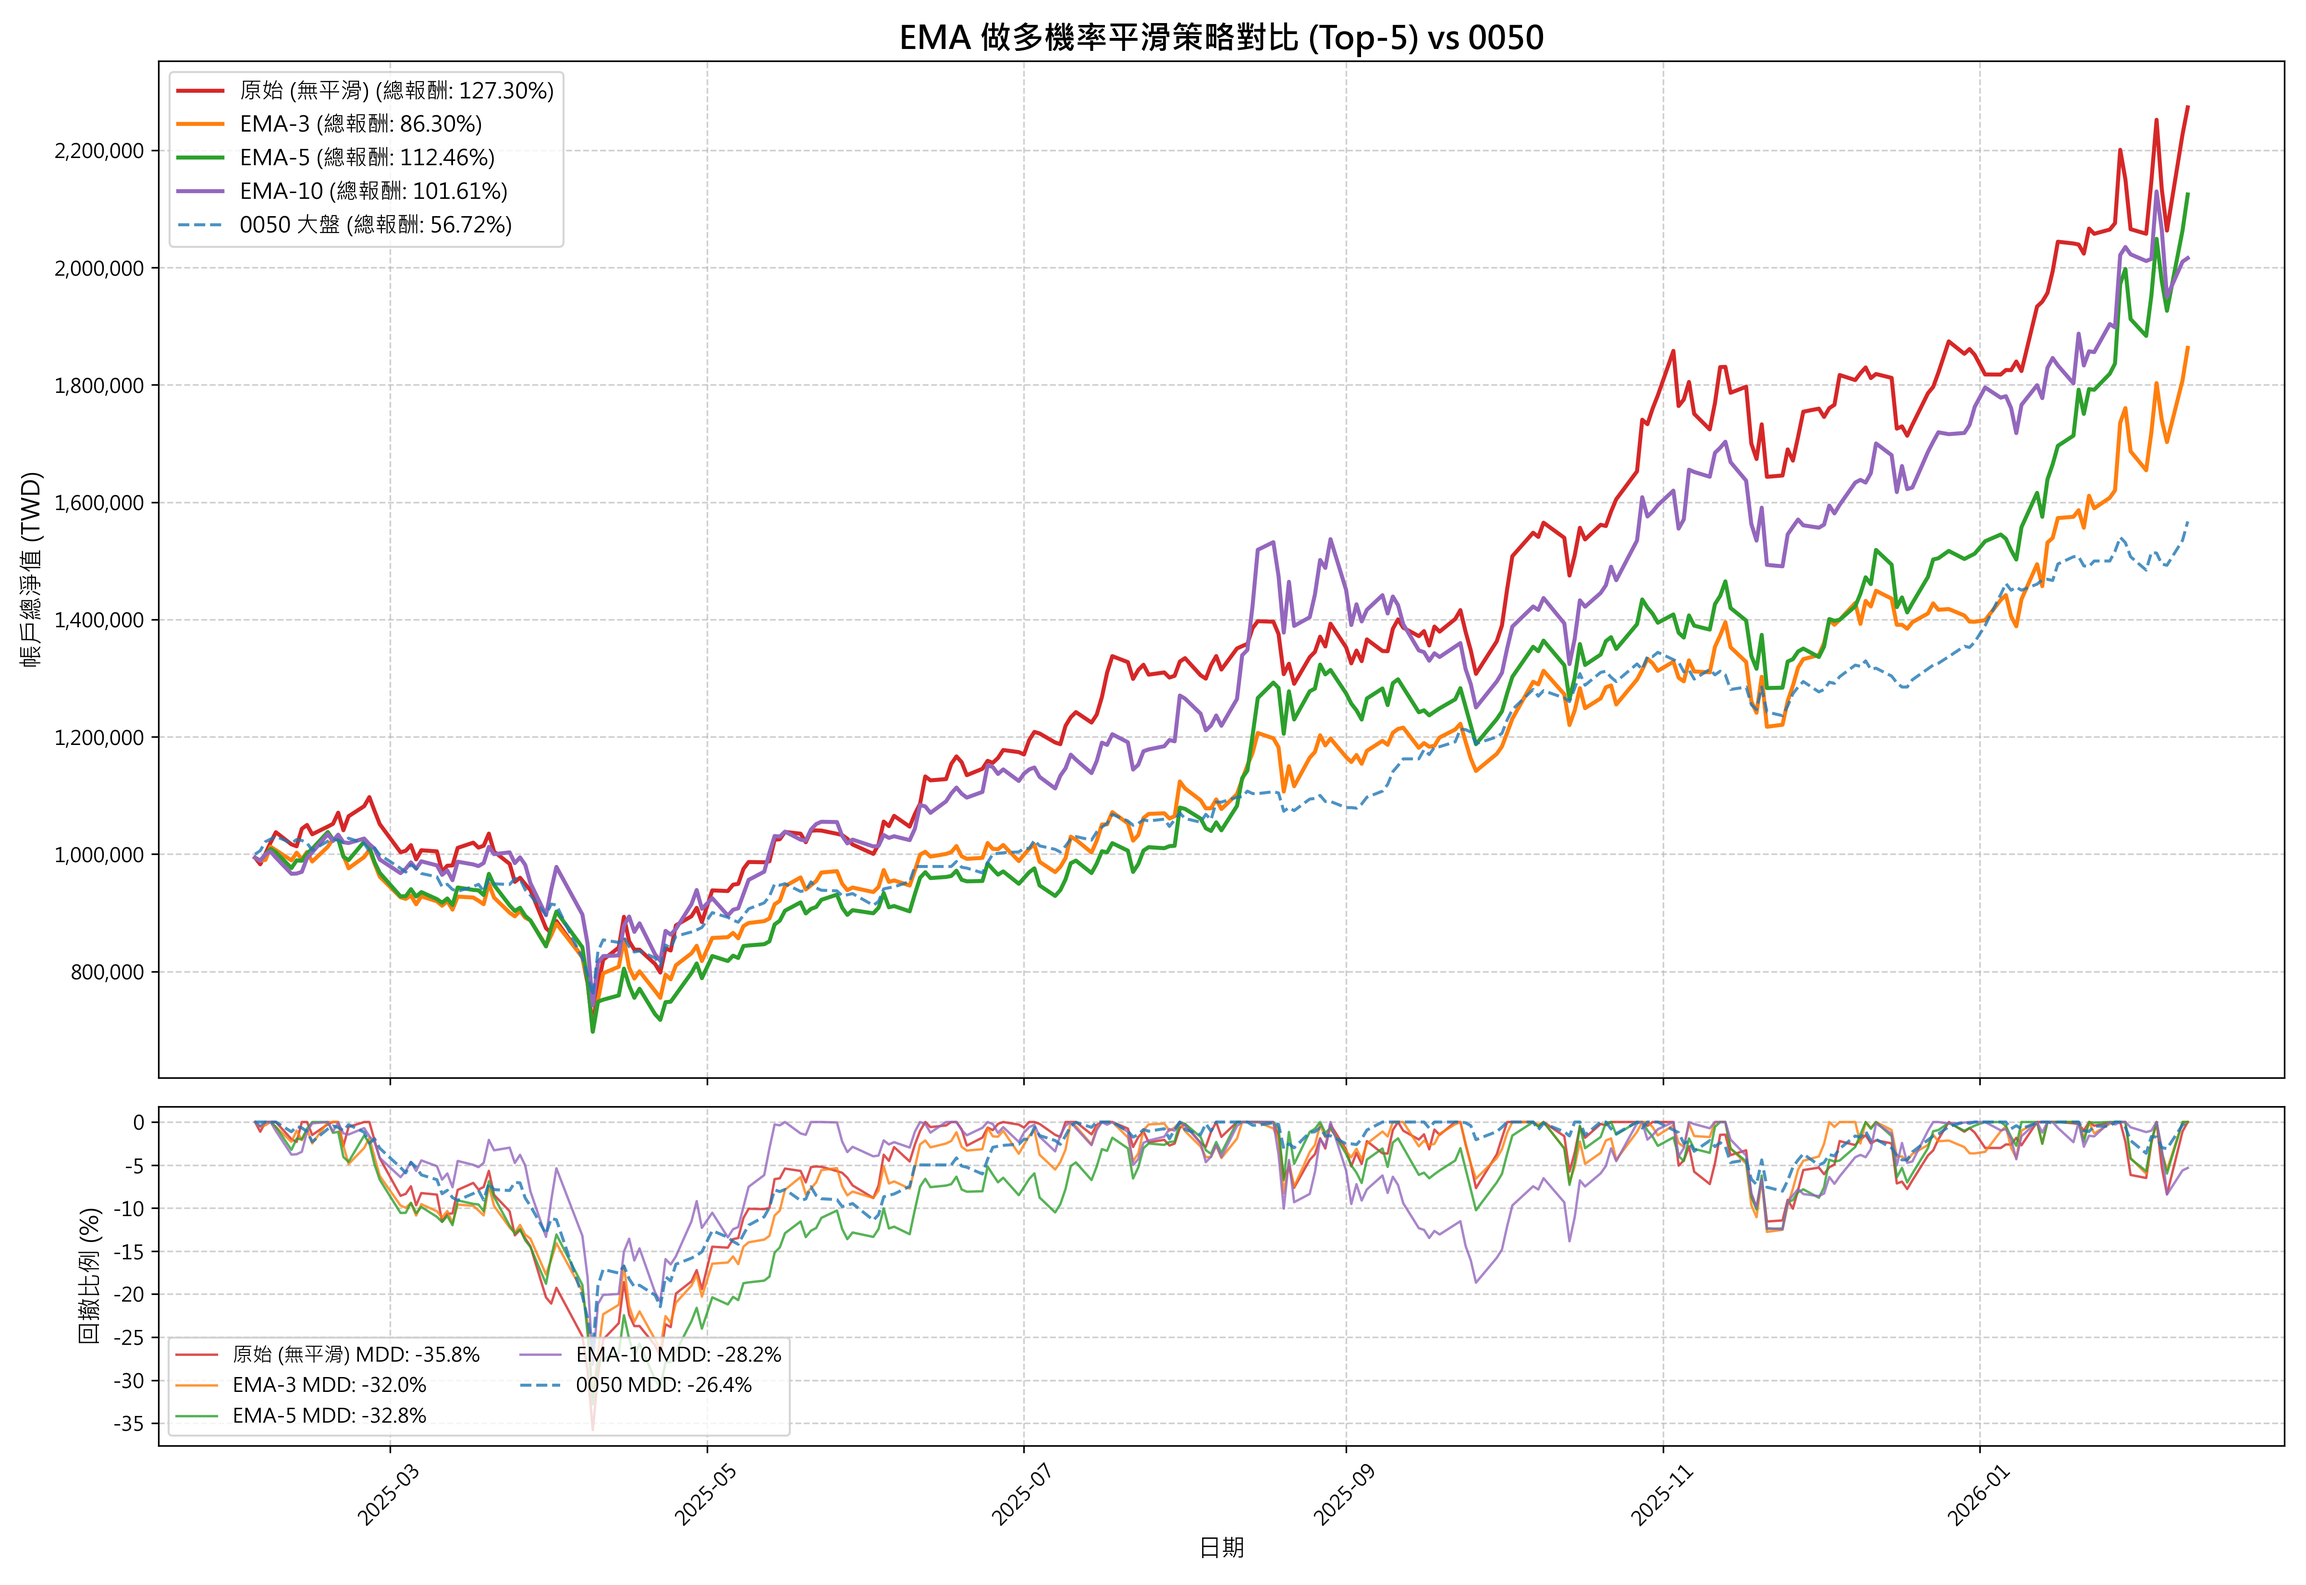
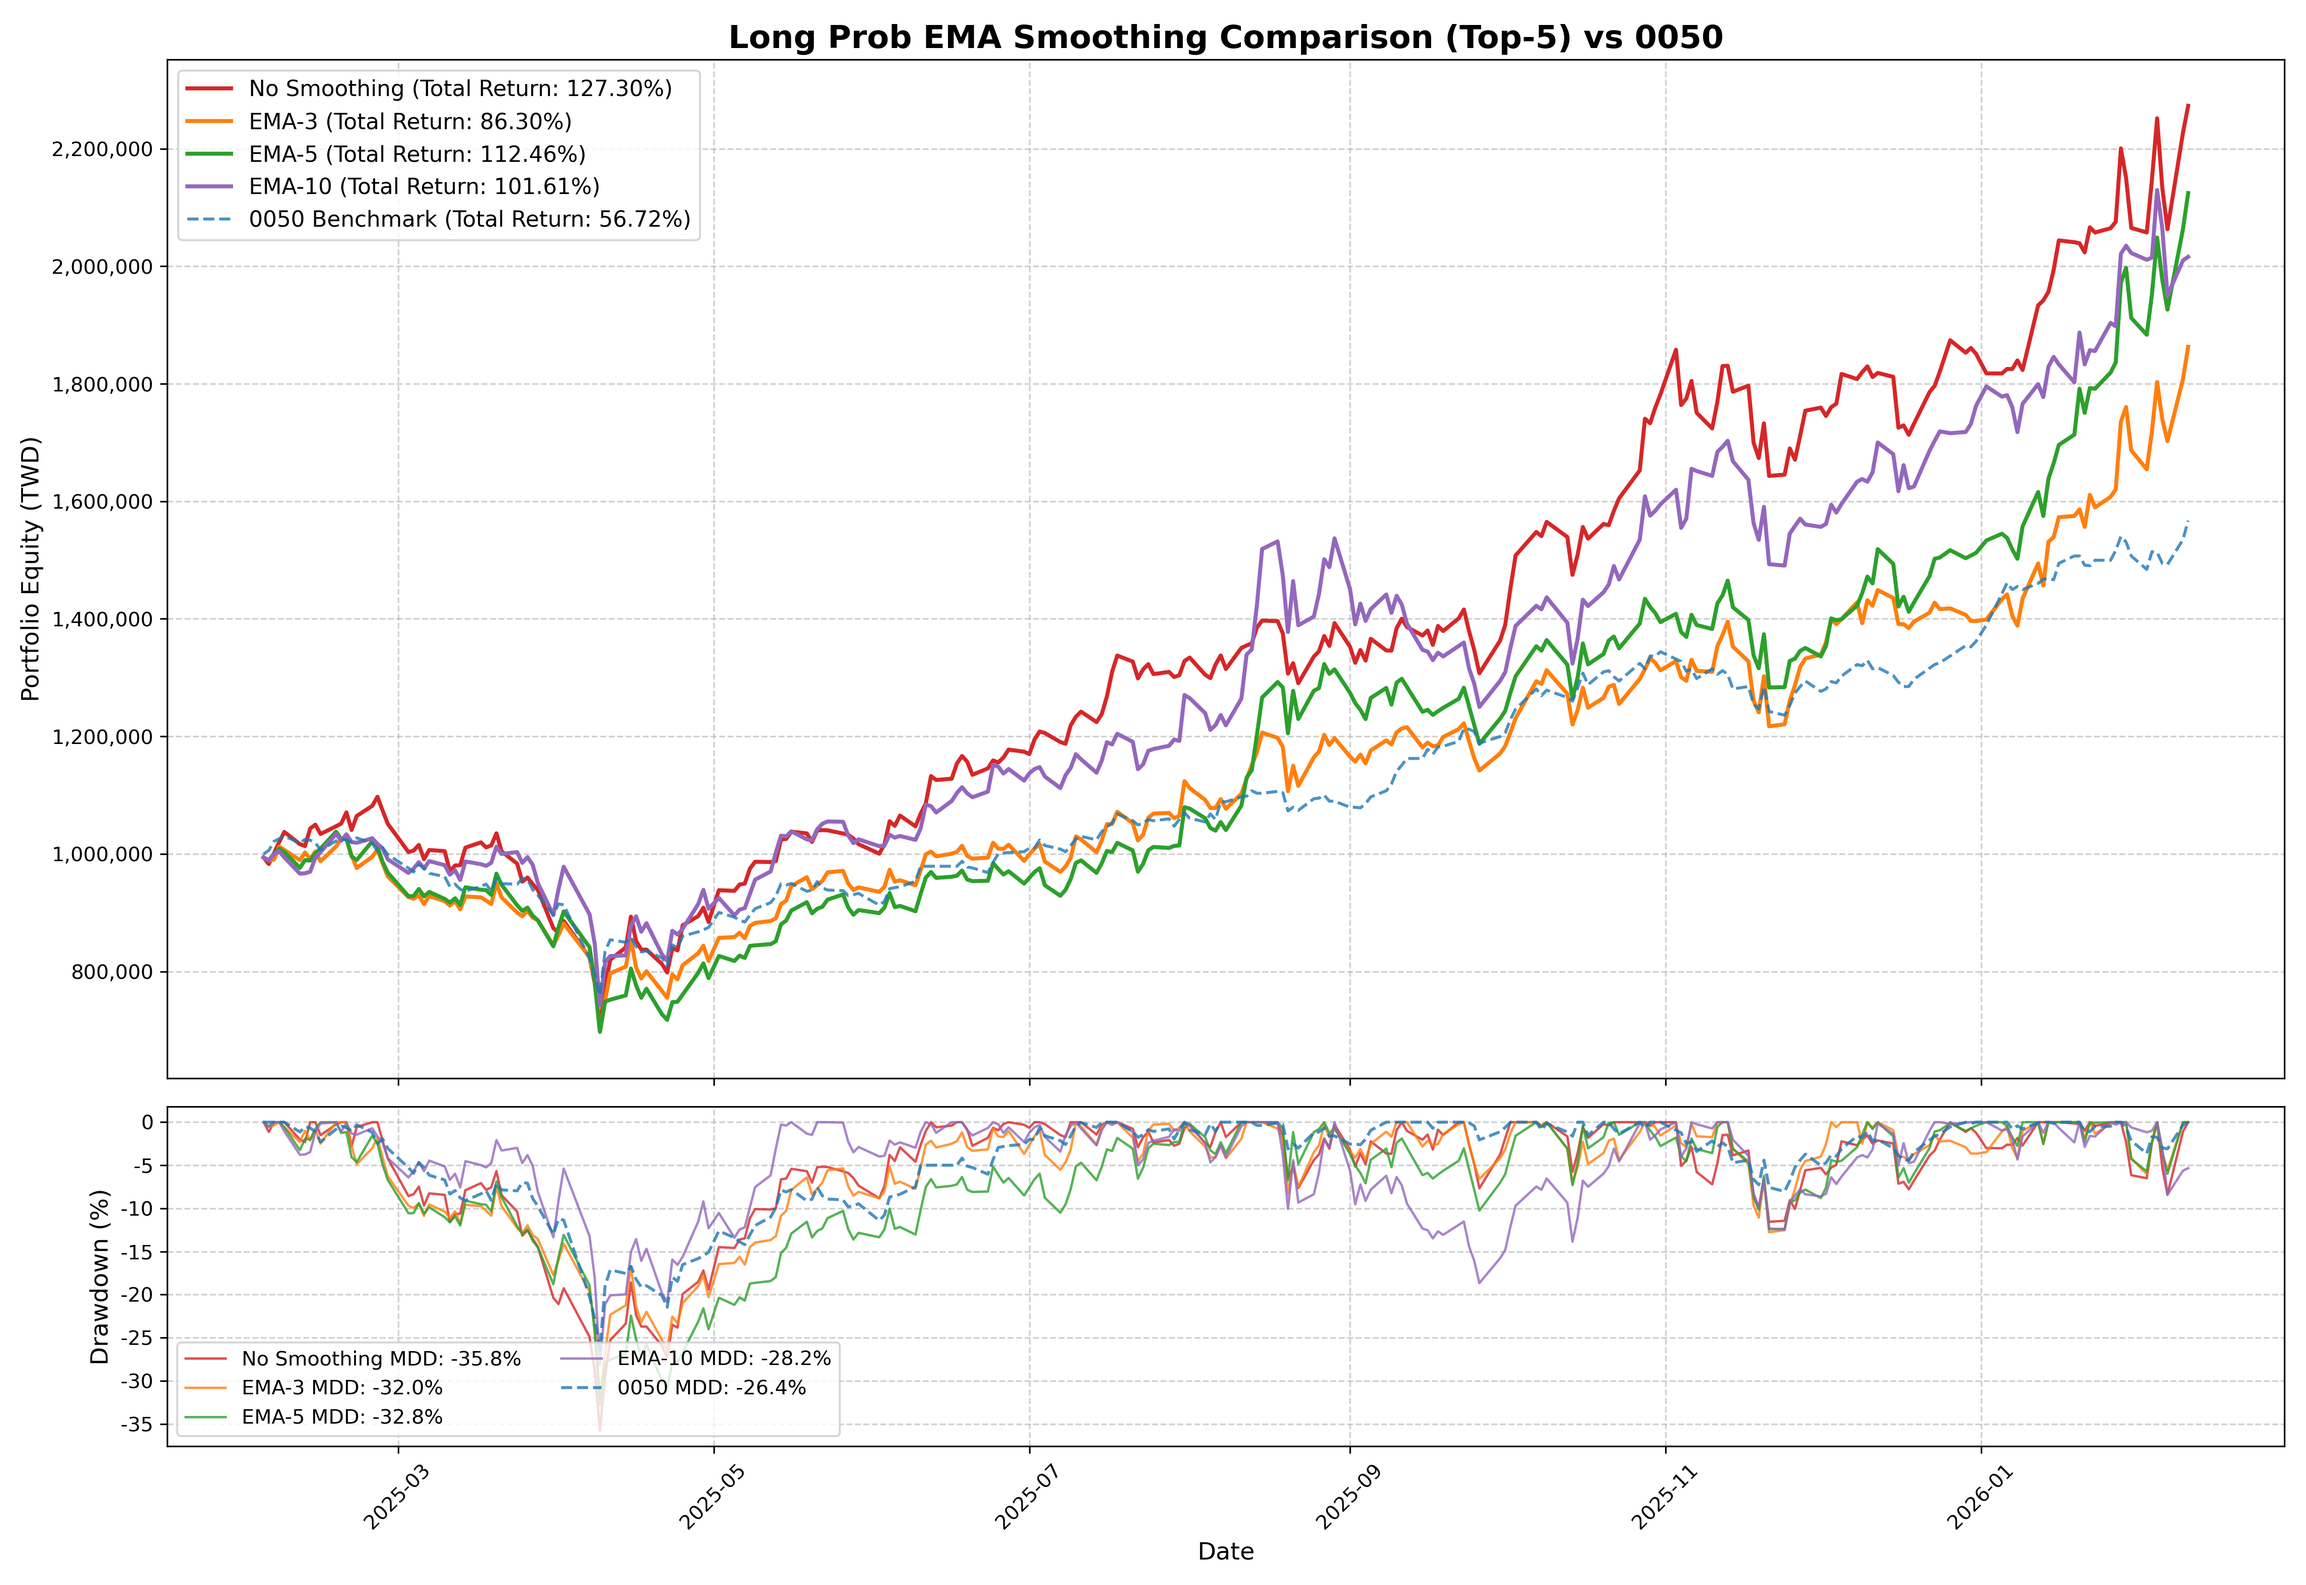
modify charts'language

diff --git a/src/experiments/portfolio_backtest.py b/src/experiments/portfolio_backtest.py
@@ -8,8 +8,7 @@ import os
 import sys
 from tqdm import tqdm
 
-# 設定中文字體與負號顯示
-plt.rcParams['font.sans-serif'] = ['Microsoft JhengHei'] 
+plt.rcParams['font.sans-serif'] = ['DejaVu Sans']
 plt.rcParams['axes.unicode_minus'] = False
 
 print("1. 載入 XGBoost 雙模型與 Eval 測試資料...")
@@ -349,15 +348,15 @@ colors = ['#d62728', '#ff7f0e', '#2ca02c', '#9467bd', '#e377c2']
 # 繪製淨值曲線
 for i, n in enumerate(n_values):
     res = results[n]
-    ax1.plot(res['equity']['date'], res['equity']['equity'], color=colors[i], linewidth=2.0, 
-             label=f'XGB Top-{n} (總報酬: {res["ret"]*100:.2f}%)')
+    ax1.plot(res['equity']['date'], res['equity']['equity'], color=colors[i], linewidth=2.0,
+             label=f'XGB Top-{n} (Total Return: {res["ret"]*100:.2f}%)')
 
 if df_0050 is not None:
-    ax1.plot(df_0050_eq['date'], df_0050_eq['equity'], color='#1f77b4', linewidth=1.5, linestyle='--', 
-             alpha=0.8, label=f'0050 大盤 (總報酬: {benchmark_return*100:.2f}%)')
+    ax1.plot(df_0050_eq['date'], df_0050_eq['equity'], color='#1f77b4', linewidth=1.5, linestyle='--',
+             alpha=0.8, label=f'0050 Benchmark (Total Return: {benchmark_return*100:.2f}%)')
 
-ax1.set_title('XGBoost 雙向模型 (Top-N) 策略大對決 vs 0050', fontsize=16, fontweight='bold')
-ax1.set_ylabel('帳戶總淨值 (TWD)', fontsize=12)
+ax1.set_title('XGBoost Dual-Model (Top-N) Strategy Comparison vs 0050', fontsize=16, fontweight='bold')
+ax1.set_ylabel('Portfolio Equity (TWD)', fontsize=12)
 ax1.grid(True, linestyle='--', alpha=0.6)
 ax1.legend(loc='upper left', fontsize=11)
 ax1.yaxis.set_major_formatter(plt.FuncFormatter(lambda x, loc: "{:,}".format(int(x))))
@@ -372,8 +371,8 @@ if df_0050 is not None:
     ax2.plot(df_0050_eq['date'], df_0050_eq['drawdown'] * 100, color='#1f77b4', linewidth=1.5, linestyle='--', 
              alpha=0.8, label=f'0050 MDD: {benchmark_mdd*100:.1f}%')
     
-ax2.set_ylabel('回撤比例 (%)', fontsize=12)
-ax2.set_xlabel('日期', fontsize=12)
+ax2.set_ylabel('Drawdown (%)', fontsize=12)
+ax2.set_xlabel('Date', fontsize=12)
 ax2.grid(True, linestyle='--', alpha=0.6)
 ax2.legend(loc='lower left', fontsize=10, ncol=2)
 ax2.xaxis.set_major_formatter(mdates.DateFormatter('%Y-%m'))
@@ -465,10 +464,10 @@ else:
 print("\n7. 執行 EMA 做多機率平滑策略對比 (Top-1, Top-3, Top-5)...")
 
 ema_variants = {
-    '原始 (無平滑)': 'pred_prob_long',
-    'EMA-3':         'pred_prob_long_ema3',
-    'EMA-5':         'pred_prob_long_ema5',
-    'EMA-10':        'pred_prob_long_ema10',
+    'No Smoothing': 'pred_prob_long',
+    'EMA-3':        'pred_prob_long_ema3',
+    'EMA-5':        'pred_prob_long_ema5',
+    'EMA-10':       'pred_prob_long_ema10',
 }
 ema_colors = ['#d62728', '#ff7f0e', '#2ca02c', '#9467bd']
 EMA_N_VALUES = [1, 3, 5]
@@ -497,15 +496,15 @@ for ema_n in EMA_N_VALUES:
         res = ema_all_results[(ema_n, label)]
         ax3.plot(res['equity']['date'], res['equity']['equity'],
                  color=ema_colors[i], linewidth=2.0,
-                 label=f'{label} (總報酬: {res["ret"]*100:.2f}%)')
+                 label=f'{label} (Total Return: {res["ret"]*100:.2f}%)')
 
     if df_0050 is not None:
         ax3.plot(df_0050_eq['date'], df_0050_eq['equity'],
                  color='#1f77b4', linewidth=1.5, linestyle='--', alpha=0.8,
-                 label=f'0050 大盤 (總報酬: {benchmark_return*100:.2f}%)')
+                 label=f'0050 Benchmark (Total Return: {benchmark_return*100:.2f}%)')
 
-    ax3.set_title(f'EMA 做多機率平滑策略對比 (Top-{ema_n}) vs 0050', fontsize=16, fontweight='bold')
-    ax3.set_ylabel('帳戶總淨值 (TWD)', fontsize=12)
+    ax3.set_title(f'Long Prob EMA Smoothing Comparison (Top-{ema_n}) vs 0050', fontsize=16, fontweight='bold')
+    ax3.set_ylabel('Portfolio Equity (TWD)', fontsize=12)
     ax3.grid(True, linestyle='--', alpha=0.6)
     ax3.legend(loc='upper left', fontsize=11)
     ax3.yaxis.set_major_formatter(plt.FuncFormatter(lambda x, loc: "{:,}".format(int(x))))
@@ -521,8 +520,8 @@ for ema_n in EMA_N_VALUES:
                  color='#1f77b4', linewidth=1.5, linestyle='--', alpha=0.8,
                  label=f'0050 MDD: {benchmark_mdd*100:.1f}%')
 
-    ax4.set_ylabel('回撤比例 (%)', fontsize=12)
-    ax4.set_xlabel('日期', fontsize=12)
+    ax4.set_ylabel('Drawdown (%)', fontsize=12)
+    ax4.set_xlabel('Date', fontsize=12)
     ax4.grid(True, linestyle='--', alpha=0.6)
     ax4.legend(loc='lower left', fontsize=10, ncol=2)
     ax4.xaxis.set_major_formatter(mdates.DateFormatter('%Y-%m'))
